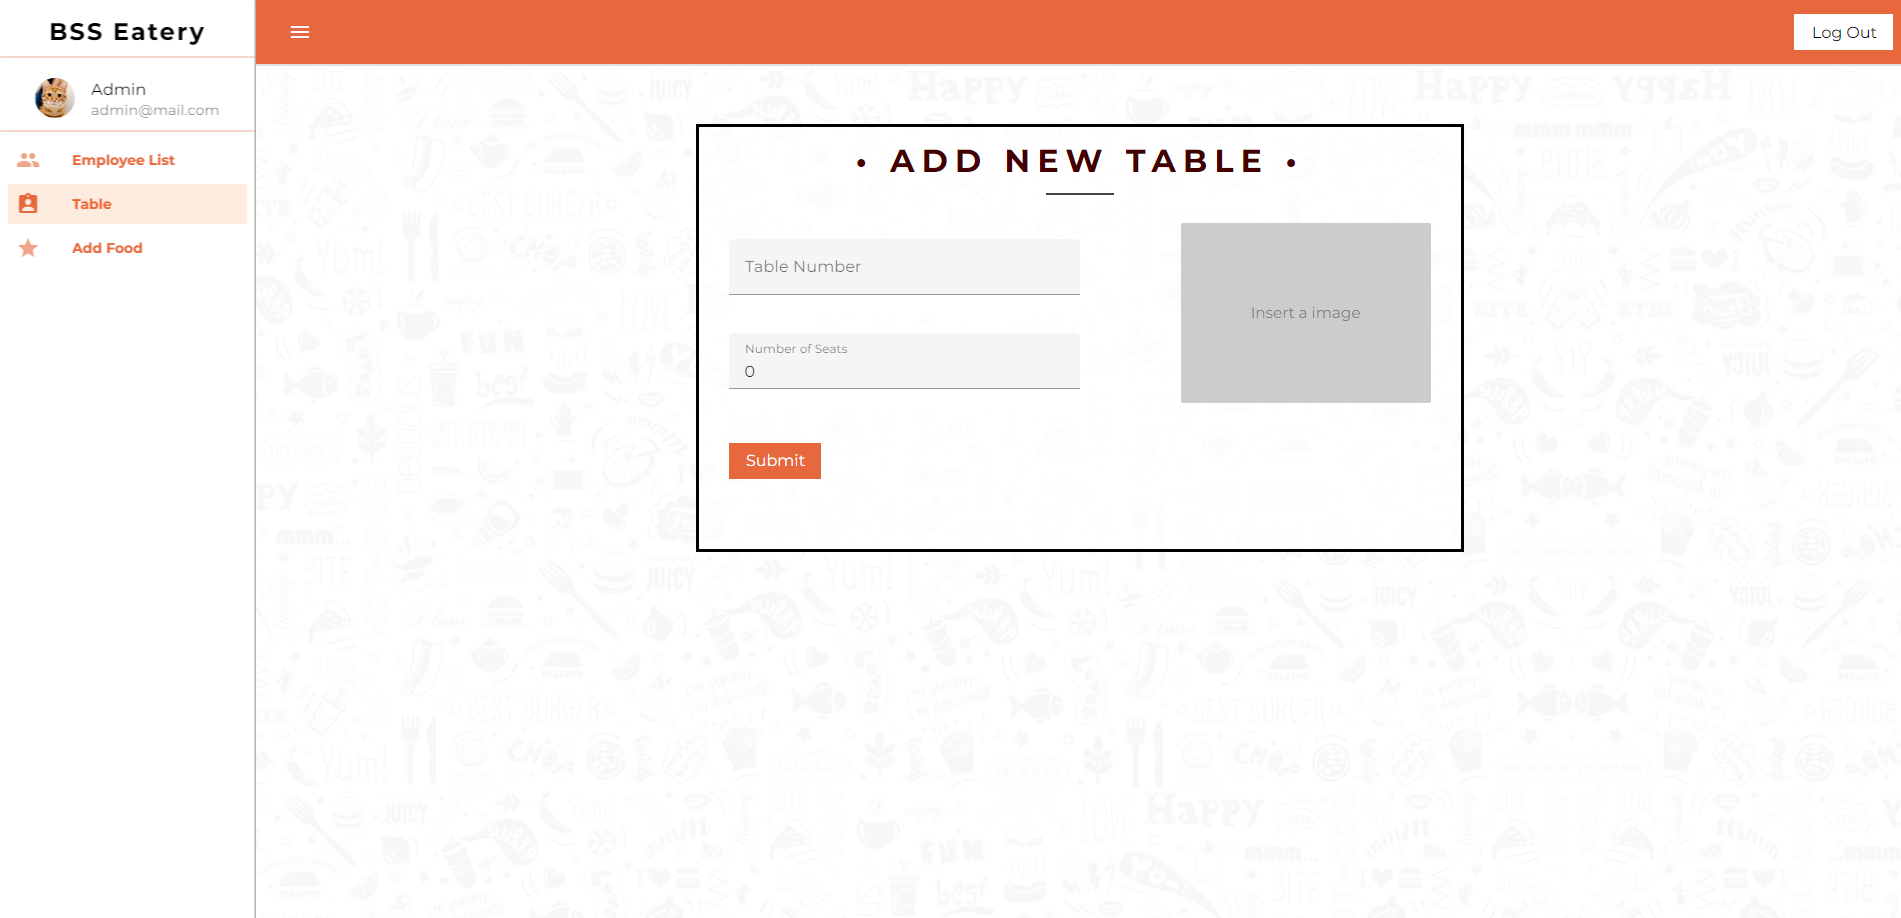
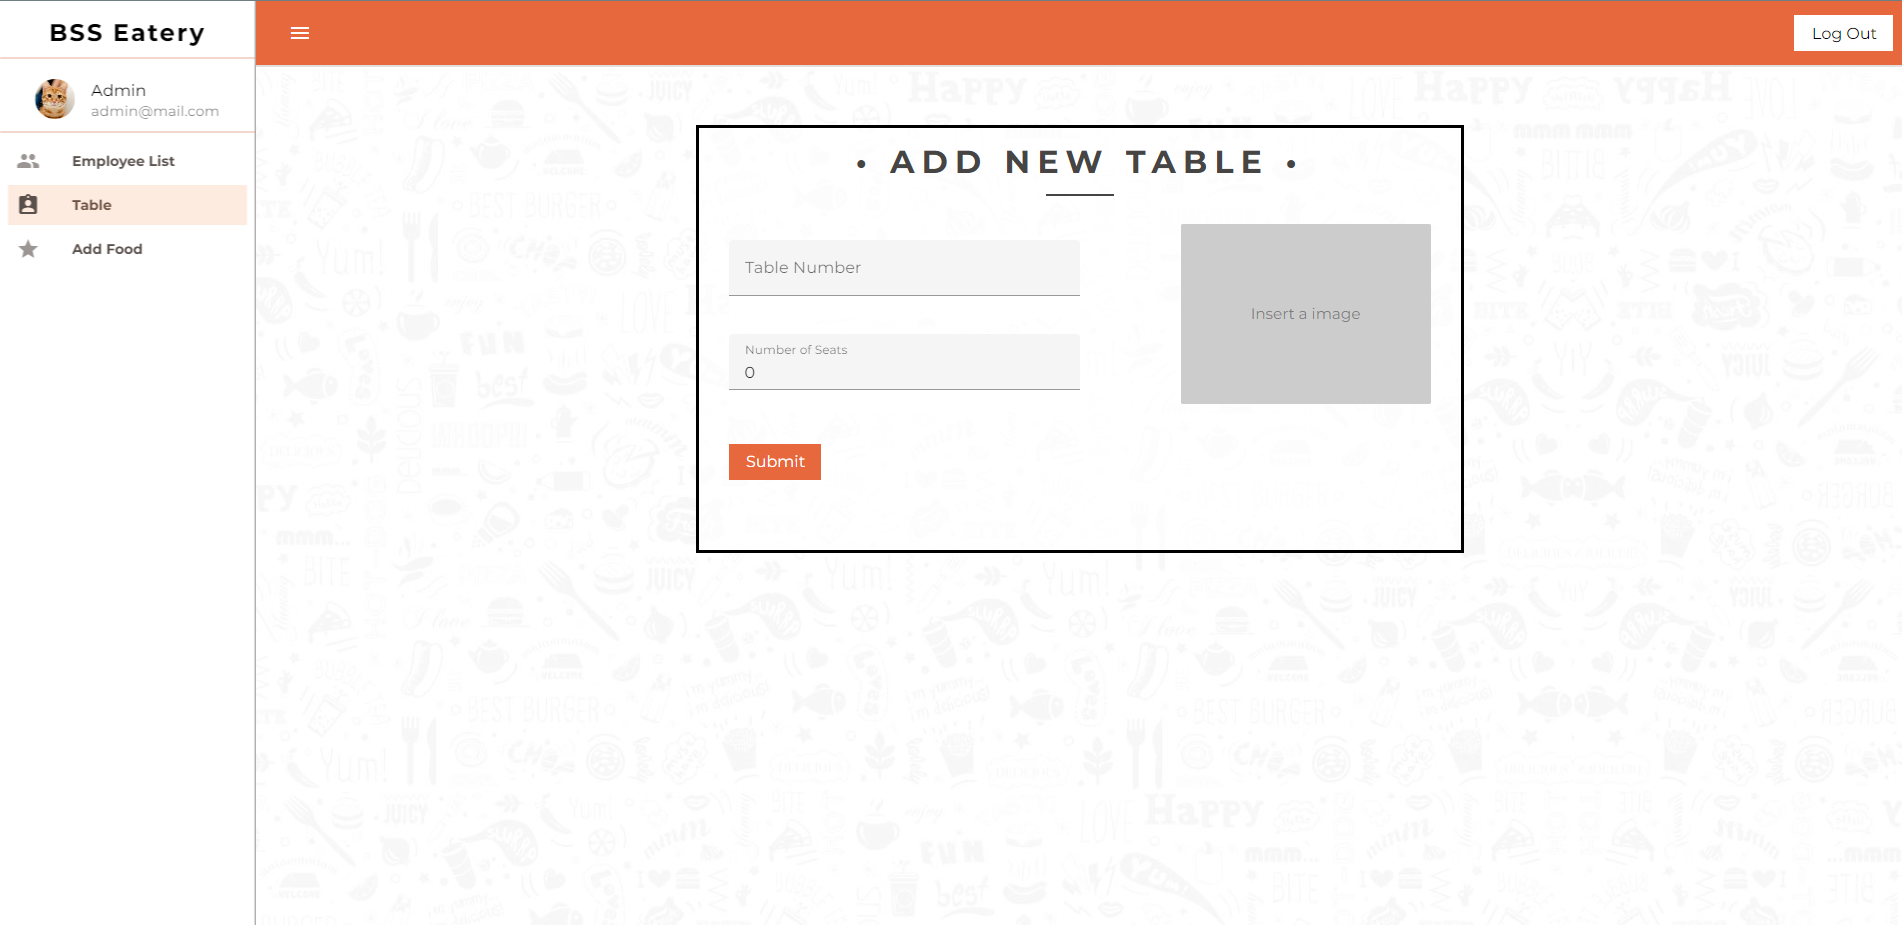
add-table updated

diff --git a/src/Views/AddTable.vue b/src/Views/AddTable.vue
@@ -141,7 +141,7 @@ export default {
 }
 h1 {
   font-family: "Montserrat", Arial, sans-serif;
-  color: #440000;
+  color: #474544;
   font-size: clamp(0.73rem, -0.875rem + 8.333vw, 2rem);
   font-weight: 700;
   letter-spacing: 7px;
